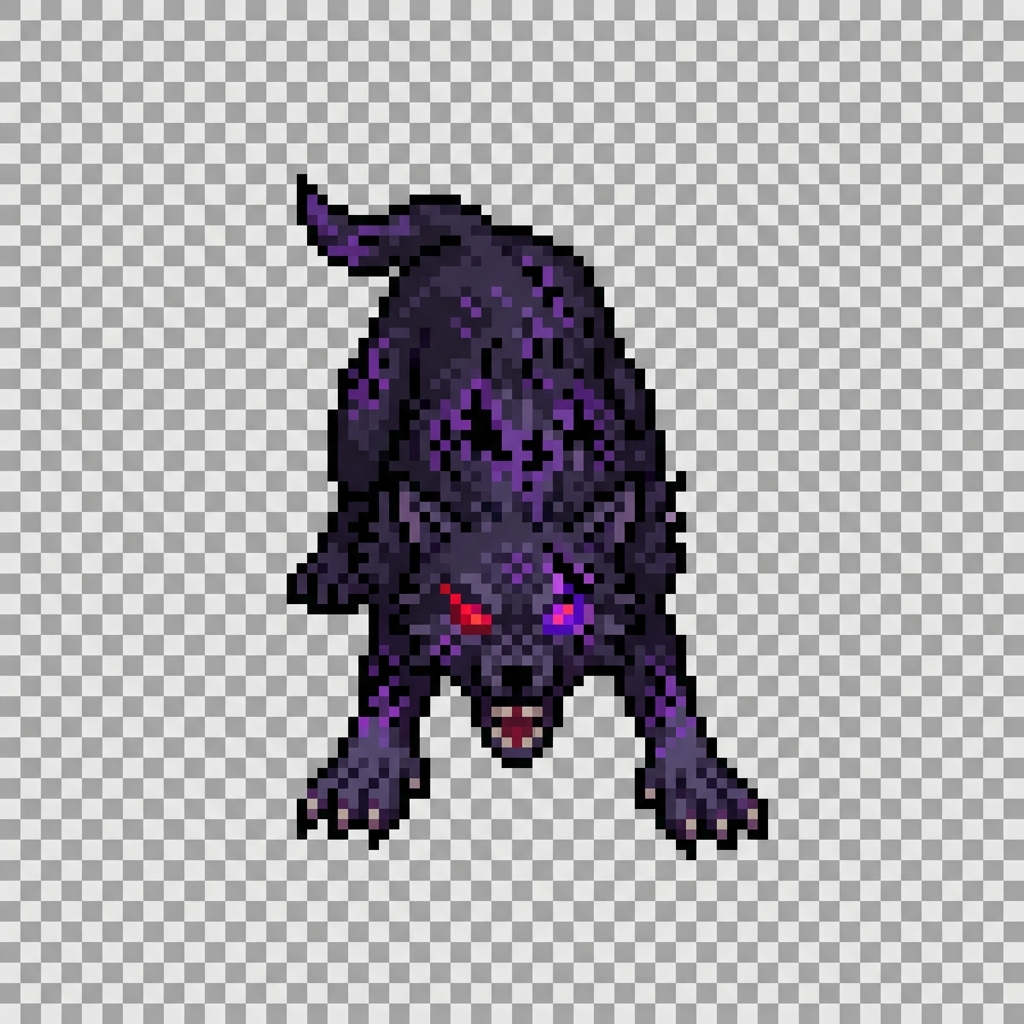
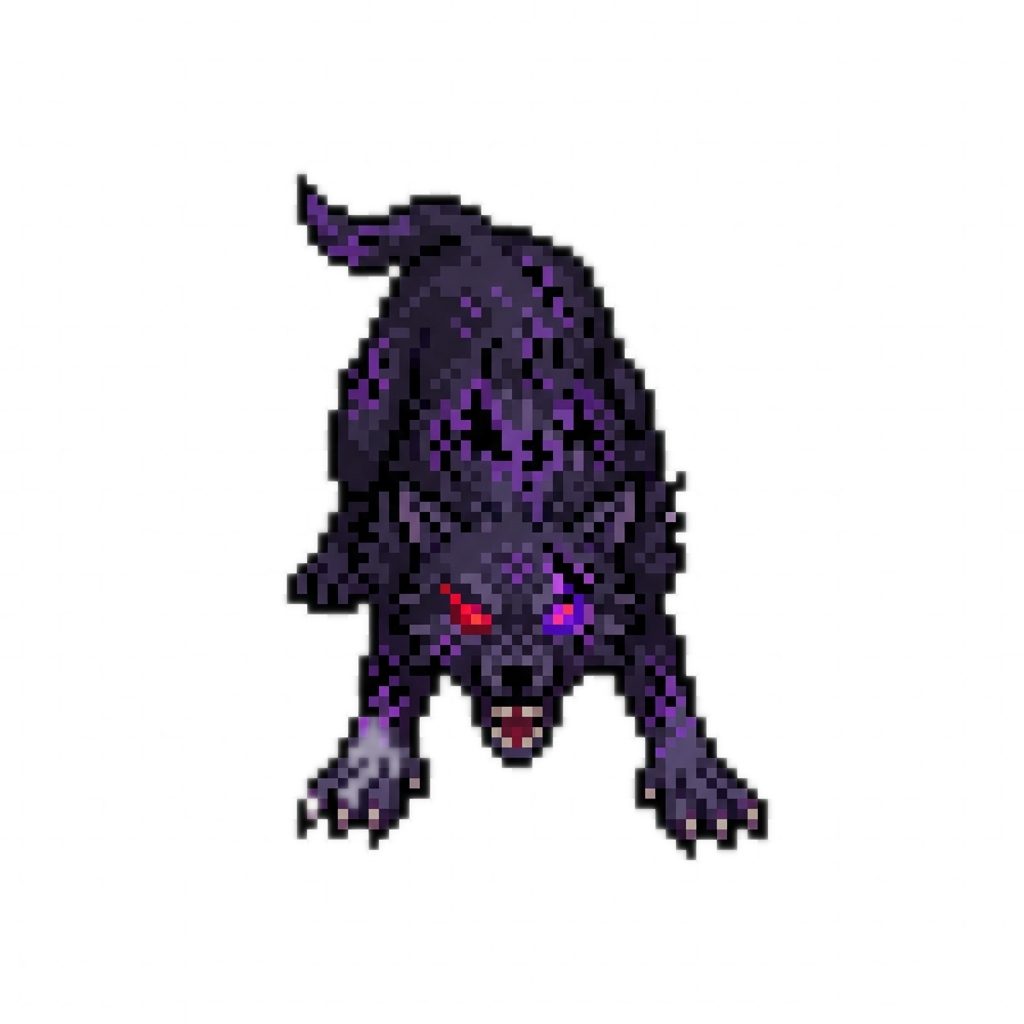
fixing the sprites

diff --git a/combat.py b/combat.py
@@ -22,59 +22,30 @@ class CombatSystem:
         self.big_font = get_font(40)
         self.assets_dir = os.path.join(os.path.dirname(__file__), 'assets')
         
-        # --- Aggressive Asset Cleaning Pipeline ---
-        def clean_background(surf, threshold=50):
-            # Locks surface for pixel access
-            surf = surf.convert() # Ensure format
-            width, height = surf.get_size()
-            
-            # Sample background color from top-left
-            bg_color = surf.get_at((0, 0))
-            
-            # If standard PNG transparency exists, we might skip this, 
-            # but user says they have artifacts, so we force clean if it LOOKS like a background.
-            # Simple Euclidean distance check
-            
-            # Create a mask of pixels to keep
-            new_surf = pygame.Surface((width, height), pygame.SRCALPHA)
-            new_surf.fill((0,0,0,0))
-            
-            # Iterate (Slow in Python but okay for 5 assets one-time load)
-            for x in range(width):
-                for y in range(height):
-                    c = surf.get_at((x, y))
-                    # Dist from bg
-                    dist = ((c.r - bg_color.r)**2 + (c.g - bg_color.g)**2 + (c.b - bg_color.b)**2)**0.5
-                    if dist > threshold:
-                        new_surf.set_at((x, y), c)
-            
-            return new_surf
-
-        def autocrop(surf):
-            rect = surf.get_bounding_rect()
-            if rect.width == 0 or rect.height == 0: return surf
-            return surf.subsurface(rect).copy()
-
+        # --- Robust Asset Loader V2 (Rolled Back) ---
         def load(name, scale=None, flip=False):
             path = os.path.join(self.assets_dir, name)
             try:
                 img = pygame.image.load(path)
                 
-                # 1. Clean Background (Threshold)
-                # Check if it has an alpha channel that is used. 
-                # If mostly opaque or user reports artifacts, run cleaner.
-                # Heuristic: If corners are opaque, it needs cleaning.
-                if img.get_at((0,0)).a == 255:
-                     img = clean_background(img)
+                # Check for existing transparency
+                has_transparency = False
+                if img.get_flags() & pygame.SRCALPHA:
+                     if img.get_at((0,0)).a == 0: has_transparency = True
                 
-                # 2. Autocrop (Remove empty space)
-                img = autocrop(img)
-                
-                # 3. Scale (Now we strictly scale the CONTENT)
+                if has_transparency:
+                    img = img.convert_alpha()
+                else:
+                    # Force opacity logic
+                    img = img.convert() 
+                    col = img.get_at((0, 0))
+                    img.set_colorkey(col)
+
+                # Scale
                 if scale: 
                     img = pygame.transform.scale(img, scale)
                 
-                # 4. Flip
+                # Flip
                 if flip: 
                     img = pygame.transform.flip(img, True, False)
                     
@@ -87,8 +58,7 @@ class CombatSystem:
 
         self.bg = load('bg_combat_forest.png', (SCREEN_WIDTH, SCREEN_HEIGHT))
         
-        # Sprites (MASSIVE SCALE UP)
-        # Using 300px because we autocropped, so this is 300px of pure content
+        # Sprites (Scaled Up to 300px+)
         self.spr_player_idle = load('spr_hatchling.png', (300, 300))
         self.spr_player_attack = load('spr_hatchling_attack.png', (350, 300))
         self.spr_player_hit = load('spr_hatchling_hit.png', (300, 300))
@@ -249,13 +219,12 @@ class CombatSystem:
         sx, sy = self.shake_offset
         
         # --- LAYER 1: Background ---
-        # Fixed position, independent of exploration
         target.blit(self.bg, (0 + sx, 0 + sy))
         
         # --- LAYER 2: Enemy (Right) ---
         if self.state != STATE_WIN and self.enemy['hp'] > 0:
             e_img = self.spr_enemy_idle
-            ex, ey = 800, 250 # Adjusted for larger size (350px)
+            ex, ey = 850, 250 # Adjusted X for 350px width
             
             if self.state == STATE_ENEMY_ACTION:
                  e_img = self.spr_enemy_attack
@@ -272,7 +241,7 @@ class CombatSystem:
 
         # --- LAYER 3: Player (Left) ---
         p_img = self.spr_player_idle
-        px, py = 100, 300 # Adjusted for larger size (300px)
+        px, py = 100, 300 # Adjusted X for 300px width
         
         if self.state == STATE_PLAYER_ACTION:
             if self.current_action == 'ATTACK':

diff --git a/cutscene.py b/cutscene.py
@@ -28,8 +28,8 @@ class Cutscene:
                 return surf
 
         self.bg = load_image('bg_forest.png', (SCREEN_WIDTH, SCREEN_HEIGHT))
-        self.egg_img = load_image('spr_egg.png', (128, 128))
-        self.hatchling_img = load_image('spr_hatchling.png', (64, 64))
+        self.egg_img = load_image('spr_egg.png', (256, 256))
+        self.hatchling_img = load_image('spr_hatchling.png', (128, 128))
         
         # Animation State
         self.stage = 0 
@@ -115,8 +115,8 @@ class Cutscene:
             self.screen.blit(overlay, (0, 0))
 
         # Center coordinates
-        cx = SCREEN_WIDTH // 2 - 64 # Half of egg width (128/2)
-        cy = SCREEN_HEIGHT // 2 - 64
+        cx = SCREEN_WIDTH // 2 - 128 # Half of egg width (256/2)
+        cy = SCREEN_HEIGHT // 2 - 128
 
         if self.stage in [1, 2]:
             # Draw Egg with offset
@@ -125,8 +125,8 @@ class Cutscene:
 
         elif self.stage == 3:
             # Draw Hatchling
-            hx = SCREEN_WIDTH // 2 - 32 # Half of hatchling width (64/2)
-            hy = SCREEN_HEIGHT // 2 - 32
+            hx = SCREEN_WIDTH // 2 - 64 # Half of hatchling width (128/2)
+            hy = SCREEN_HEIGHT // 2 - 64
             
             # Draw shell fragments (simulated) at bottom
             # pygame.draw.circle(self.screen, (100, 80, 120), (cx + 20, cy + 100), 10)

diff --git a/exploration.py b/exploration.py
@@ -27,11 +27,11 @@ class Entity(pygame.sprite.Sprite):
 
 class Player(Entity):
     def __init__(self, x, y):
-        super().__init__(x, y, 'spr_hatchling.png', (64, 64))
+        super().__init__(x, y, 'spr_hatchling.png', (100, 100))
         self.velocity = pygame.math.Vector2(0, 0)
         self.speed = 4
         
-        self.hitbox = self.rect.inflate(-20, -30)
+        self.hitbox = self.rect.inflate(-30, -50)
         self.hitbox.center = self.rect.center
         self.steps_taken = 0
 
@@ -118,11 +118,12 @@ class Camera:
 class Obstacle(Entity):
     def __init__(self, x, y, type_name):
         if type_name == 'tree':
-            super().__init__(x, y, 'spr_tree.png', (96, 128))
-            self.hitbox = pygame.Rect(x + 30, y + 80, 36, 40)
+            super().__init__(x, y, 'spr_tree.png', (150, 200))
+            # Tighter hitbox at the base of the tree
+            self.hitbox = pygame.Rect(x + 50, y + 150, 50, 40)
         elif type_name == 'rock':
-            super().__init__(x, y, 'spr_rock.png', (64, 64))
-            self.hitbox = self.rect.inflate(-10, -20)
+            super().__init__(x, y, 'spr_rock.png', (120, 120))
+            self.hitbox = self.rect.inflate(-20, -30)
 
 class Exploration:
     def __init__(self, screen=None):
